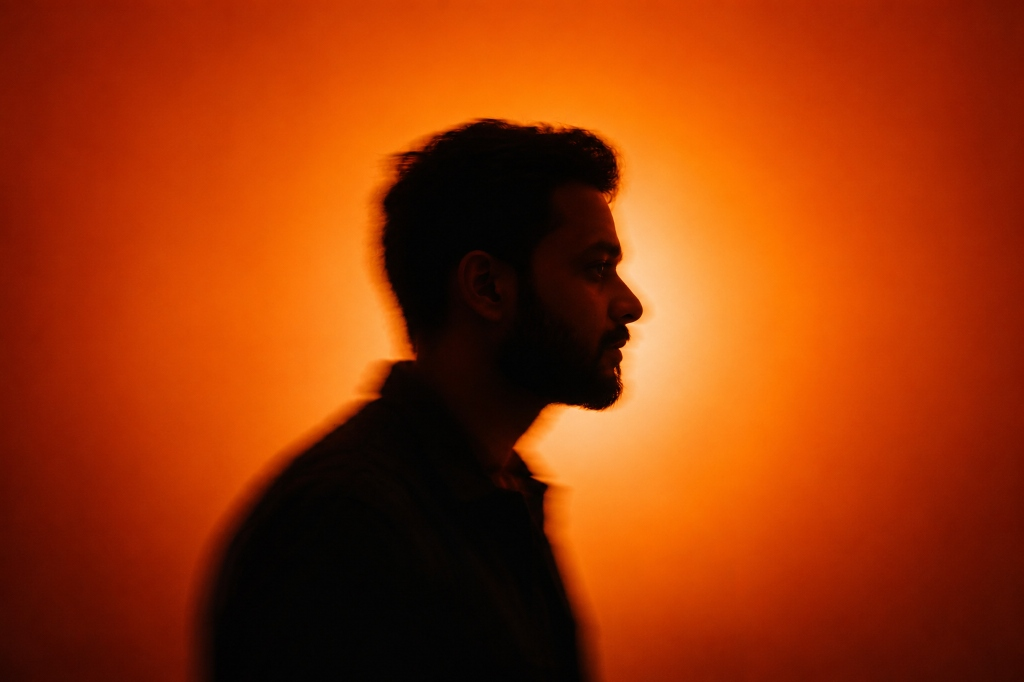
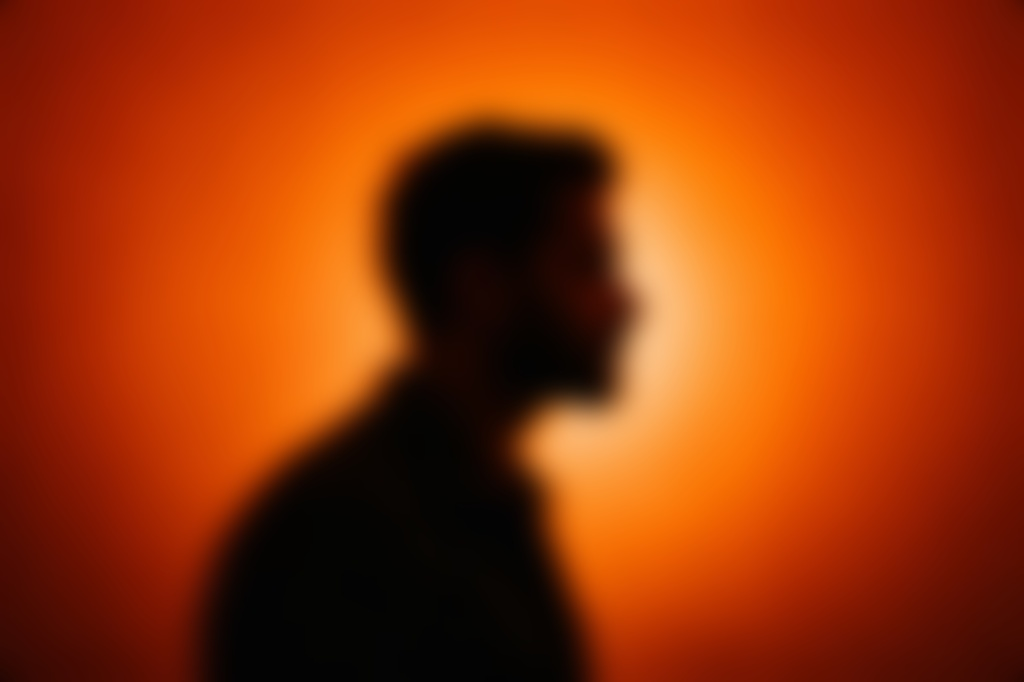
feat: enhance hero background with photographic blur and seamless edge-to-edge rendering

Changed region(s): [[0.1875, 0.154, 0.6562, 1.0]]

diff --git a/next-app/app/globals.css b/next-app/app/globals.css
@@ -2793,6 +2793,7 @@ footer {
     position: relative;
     width: 100%;
     min-height: 100vh;
+    min-height: 100dvh;
     background: #08080a;
     color: #ffffff;
     display: flex;
@@ -2800,18 +2801,19 @@ footer {
     justify-content: space-between;
     padding: 0 !important;
     overflow: hidden;
+    box-sizing: border-box;
 }
 
 .cways-hero-theme::before {
     content: '';
     position: absolute;
-    inset: -20px;
+    inset: 0;
+    width: 100%;
+    height: 100%;
     background-image: url('/hero_silhouette_bg.jpg');
     background-size: cover;
-    background-position: center right;
+    background-position: 65% center;
     background-repeat: no-repeat;
-    filter: blur(10px) brightness(0.95);
-    transform: scale(1.05);
     z-index: 0;
     pointer-events: none;
 }
@@ -2819,7 +2821,7 @@ footer {
 .cways-hero-bg-overlay {
     position: absolute;
     inset: 0;
-    background: linear-gradient(90deg, rgba(8, 8, 10, 0.92) 0%, rgba(8, 8, 10, 0.68) 45%, rgba(8, 8, 10, 0.25) 100%),
+    background: linear-gradient(90deg, rgba(8, 8, 10, 0.92) 0%, rgba(8, 8, 10, 0.65) 45%, rgba(8, 8, 10, 0.25) 100%),
         radial-gradient(circle at 75% 45%, rgba(255, 120, 30, 0.18) 0%, transparent 65%);
     z-index: 1;
     pointer-events: none;
@@ -3702,19 +3704,16 @@ footer {
         padding: 9px 14px !important;
     }
 
-    /* Hero Section Mobile Background */
-    .cways-hero-theme::before {
-        background-image: url('/hero_silhouette_mobile.jpg') !important;
-        background-size: cover !important;
-        background-position: center top !important;
-        background-repeat: no-repeat !important;
-        filter: blur(0px) brightness(0.95) !important;
-        transform: scale(1.02) !important;
-        opacity: 0.95 !important;
-    }
-
-    .cways-hero-bg-overlay {
-        background: linear-gradient(180deg, rgba(8, 8, 10, 0.4) 0%, rgba(8, 8, 10, 0.2) 30%, rgba(8, 8, 10, 0.75) 75%, rgba(8, 8, 10, 0.95) 100%) !important;
+    /* Hero Section Responsive Viewport (Always 100dvh full-screen) */
+    .cways-hero-theme {
+        min-height: 100vh !important;
+        min-height: 100dvh !important;
+        height: 100vh !important;
+        height: 100dvh !important;
+        display: flex !important;
+        flex-direction: column !important;
+        justify-content: space-between !important;
+        padding: 0 !important;
     }
 
     /* Hero Section - Text starts cleanly with standardized padding */
@@ -3722,7 +3721,9 @@ footer {
         padding: 120px 24px 36px !important;
         max-width: 100% !important;
         text-align: left !important;
-        margin-left: 0 !important;
+        margin-top: auto !important;
+        margin-bottom: auto !important;
+        box-sizing: border-box !important;
     }
 
     .cways-eyebrow {
@@ -3773,7 +3774,6 @@ footer {
 
     /* MOBILE COMPACT SECTION HEIGHTS: Remove 85vh/90vh/100vh so sections wrap tightly around text */
     /* MOBILE UNIFORM SECTION SPACING: Section 2, Section 3, Section 4 all start with identical 48px top padding */
-    .hero-layer,
     .manifesto,
     .work,
     .prototype,
@@ -3787,11 +3787,6 @@ footer {
         padding-left: 18px !important;
         padding-right: 18px !important;
         text-align: left !important;
-    }
-
-    .hero-layer {
-        padding-top: 96px !important;
-        padding-bottom: 36px !important;
     }
 
     .manifesto h2,
@@ -4020,9 +4015,25 @@ footer {
         align-items: flex-start !important;
     }
 
-    .cways-footer-stroke-brand {
-        font-size: clamp(2.2rem, 10vw, 4.2rem) !important;
-        margin-top: 32px !important;
+}
+
+/* PHONE SCREEN SIZES: Dynamic Portrait Hero Silhouette Background */
+@media (max-width: 640px) {
+    .cways-hero-theme::before {
+        background-image: url('/hero_silhouette_mobile.jpg') !important;
+        background-size: cover !important;
+        background-position: center top !important;
+        background-repeat: no-repeat !important;
+        filter: none !important;
+        transform: none !important;
+        opacity: 1 !important;
+        inset: 0 !important;
+        width: 100% !important;
+        height: 100% !important;
+    }
+
+    .cways-hero-bg-overlay {
+        background: linear-gradient(180deg, rgba(8, 8, 10, 0.15) 0%, rgba(8, 8, 10, 0.05) 25%, rgba(8, 8, 10, 0.6) 65%, rgba(8, 8, 10, 0.95) 100%) !important;
     }
 }
 
@@ -4030,17 +4041,17 @@ footer {
 
     .cways-header,
     .about-nav {
-        padding: 0 14px !important;
+        padding: 0 calc(20px + env(safe-area-inset-right, 0px)) 0 calc(20px + env(safe-area-inset-left, 0px)) !important;
     }
 
     .cways-hero-content {
-        padding: 90px 14px 24px !important;
+        padding: 115px 20px 32px !important;
     }
 
     .about-main-content {
-        padding-top: 92px !important;
-        padding-left: 14px !important;
-        padding-right: 14px !important;
+        padding-top: 100px !important;
+        padding-left: 20px !important;
+        padding-right: 20px !important;
     }
 }
 
